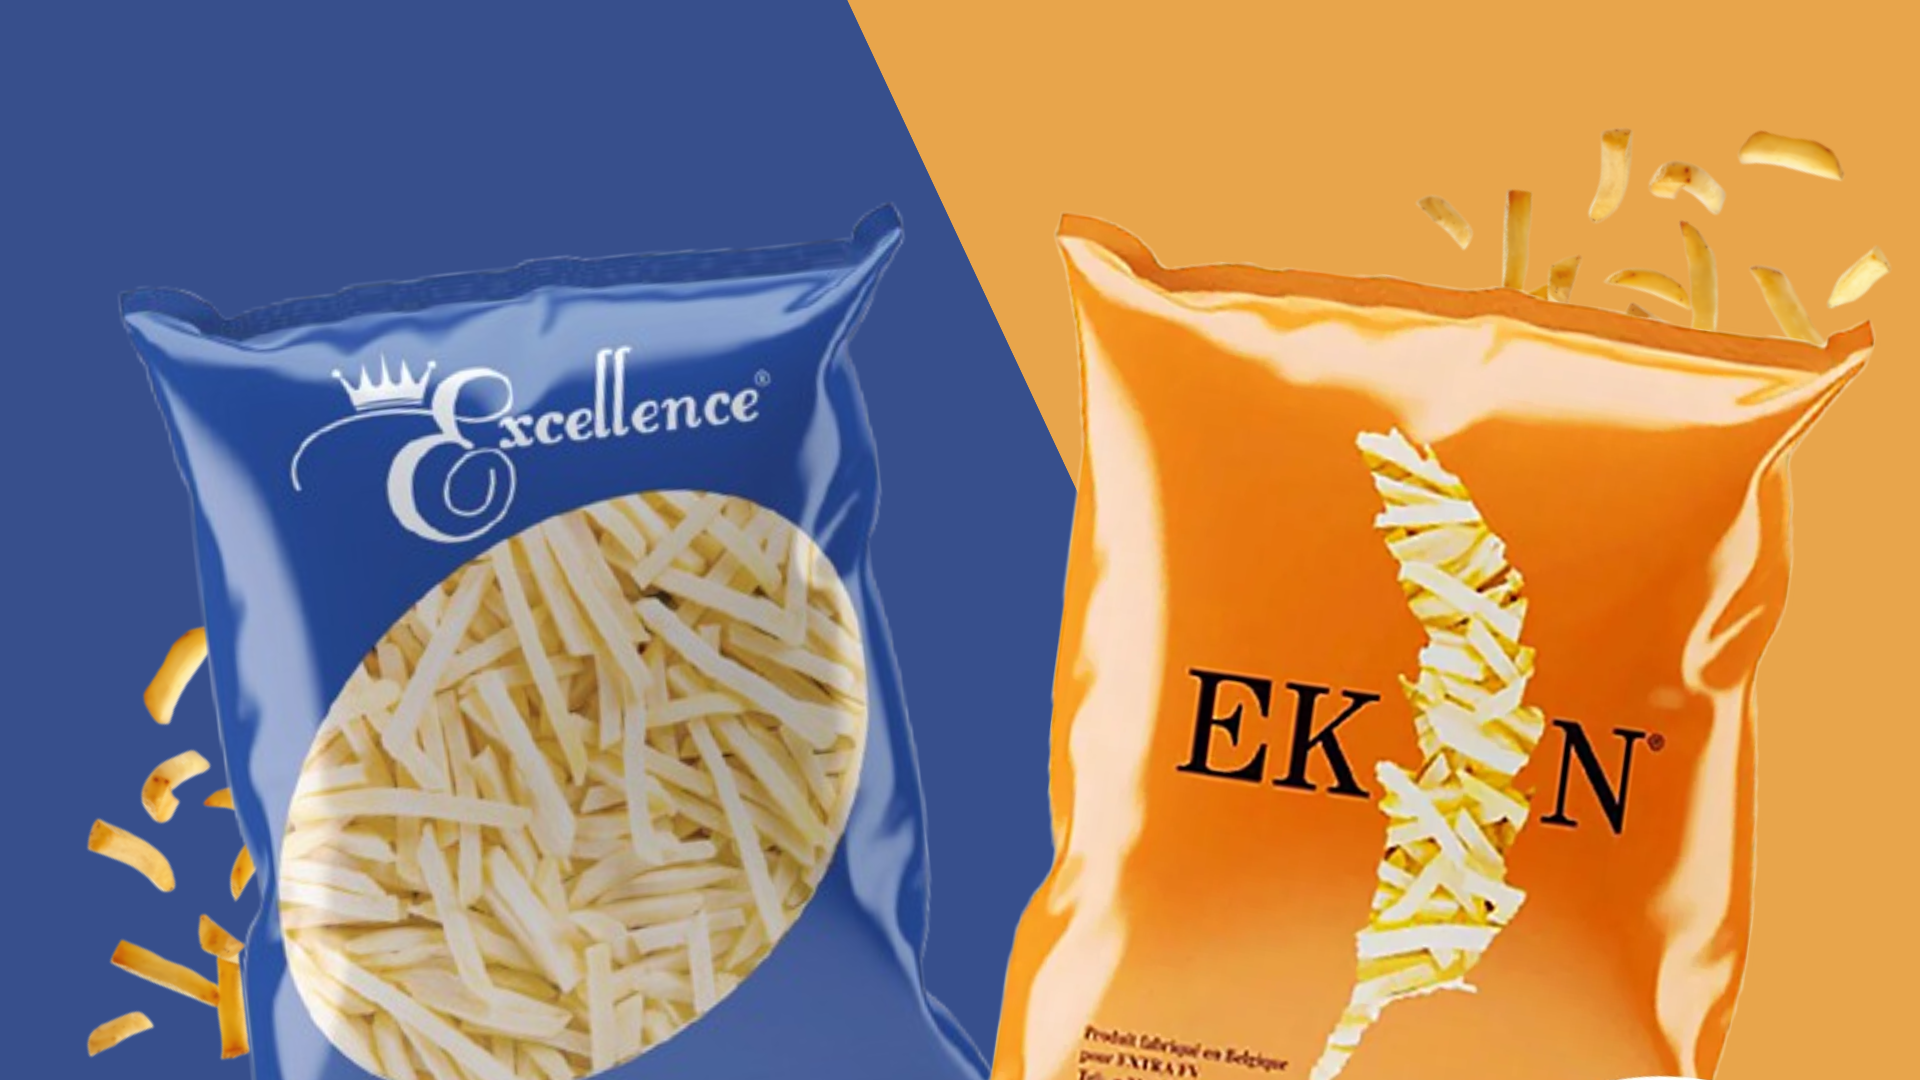
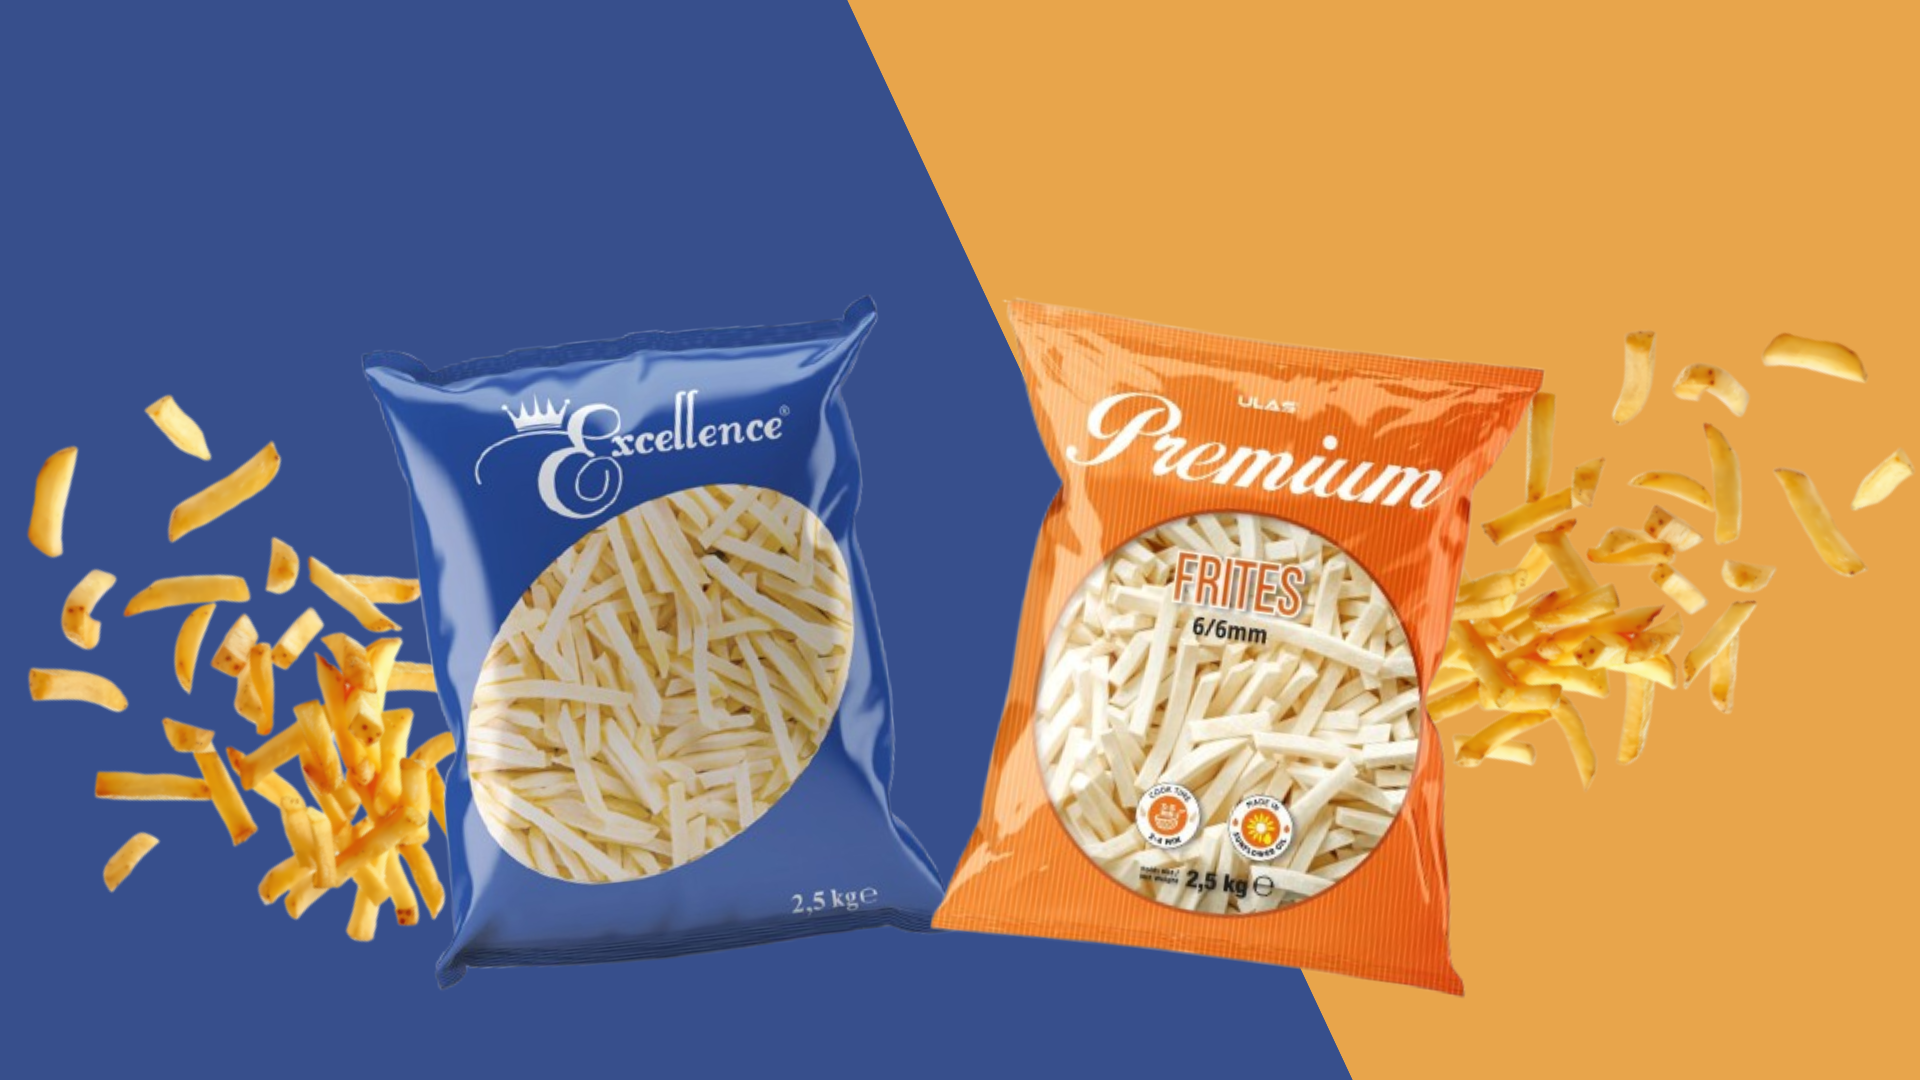
feat

diff --git a/apps/frontend/src/data/products.ts b/apps/frontend/src/data/products.ts
@@ -40,10 +40,10 @@ export const products: Product[] = [
   },
   {
     id: "185",
-    name: "Ekin, Frites 6/6 mm",
-    slug: "ekin-frites-6-6-mm",
+    name: "Ulaş Premium, Frites 6/6 mm",
+    slug: "ulas-frites-6-6-mm",
     category: "Frites et Appetiziers",
-    images: ["/images/products/ekin-frites-6-6-mm.png"],
+    images: ["/images/products/ulas-premium-frites-6-6-mm.png"],
     description: "Prête à l’emploi, nappante & gourmande",
     certificate: "",
     storage_conditions: "-18°C",
@@ -52,10 +52,10 @@ export const products: Product[] = [
   },
   {
     id: "237",
-    name: "Ekin, Frites 9/9 mm",
-    slug: "ekin-frites-9-9-mm",
+    name: "Ulaş Premium, Frites 9/9 mm",
+    slug: "ulas-frites-9-9-mm",
     category: "Frites et Appetiziers",
-    images: ["/images/products/ekin-frites-9-9-mm.png"],
+    images: ["/images/products/ulas-premium-frites-9-9-mm.jpg"],
     description: "Prête à l’emploi, nappante & gourmande",
     certificate: "",
     storage_conditions: "-18°C",

diff --git a/apps/frontend/src/components/CategoriesSection.tsx b/apps/frontend/src/components/CategoriesSection.tsx
@@ -18,7 +18,7 @@ const categoriesLeft: Category[] = [
   {
     name: "Frites et Appetizers",
     image: "/images/categories/frites-et-appetizers.png",
-    href: "/products?category=Frites,Appetizers,Spécialités,Huile",
+    href: `/products?category=${encodeURIComponent("Frites et Appetiziers")}`,
   },
   {
     name: "Pain et Tortillas",
@@ -36,7 +36,7 @@ const categoriesRight: Category[] = [
   {
     name: "Tartes et Desserts",
     image: "/images/categories/tartes-et-desserts.png",
-    href: "/products?category=Dessert",
+    href: "/products?category=Desserts",
   },
   {
     name: "Sauces",
@@ -51,7 +51,7 @@ const categoriesRight: Category[] = [
   {
     name: "Conserves et Legumes",
     image: "/images/categories/conserves-et-legumes.png",
-    href: "/products?category=Conserve",
+    href: "/products?category=Conserves",
   },
 ];
 

diff --git a/apps/frontend/src/components/ui/landing-hero.tsx b/apps/frontend/src/components/ui/landing-hero.tsx
@@ -8,7 +8,7 @@ import { useEffect, useMemo, useRef, useState } from "react";
 
 const sliderImages = [
   "/images/landing-image-3.png",
-  "/images/landing-image-4.png",
+  "/images/landing-image-1.png",
 ];
 
 function Hero() {
